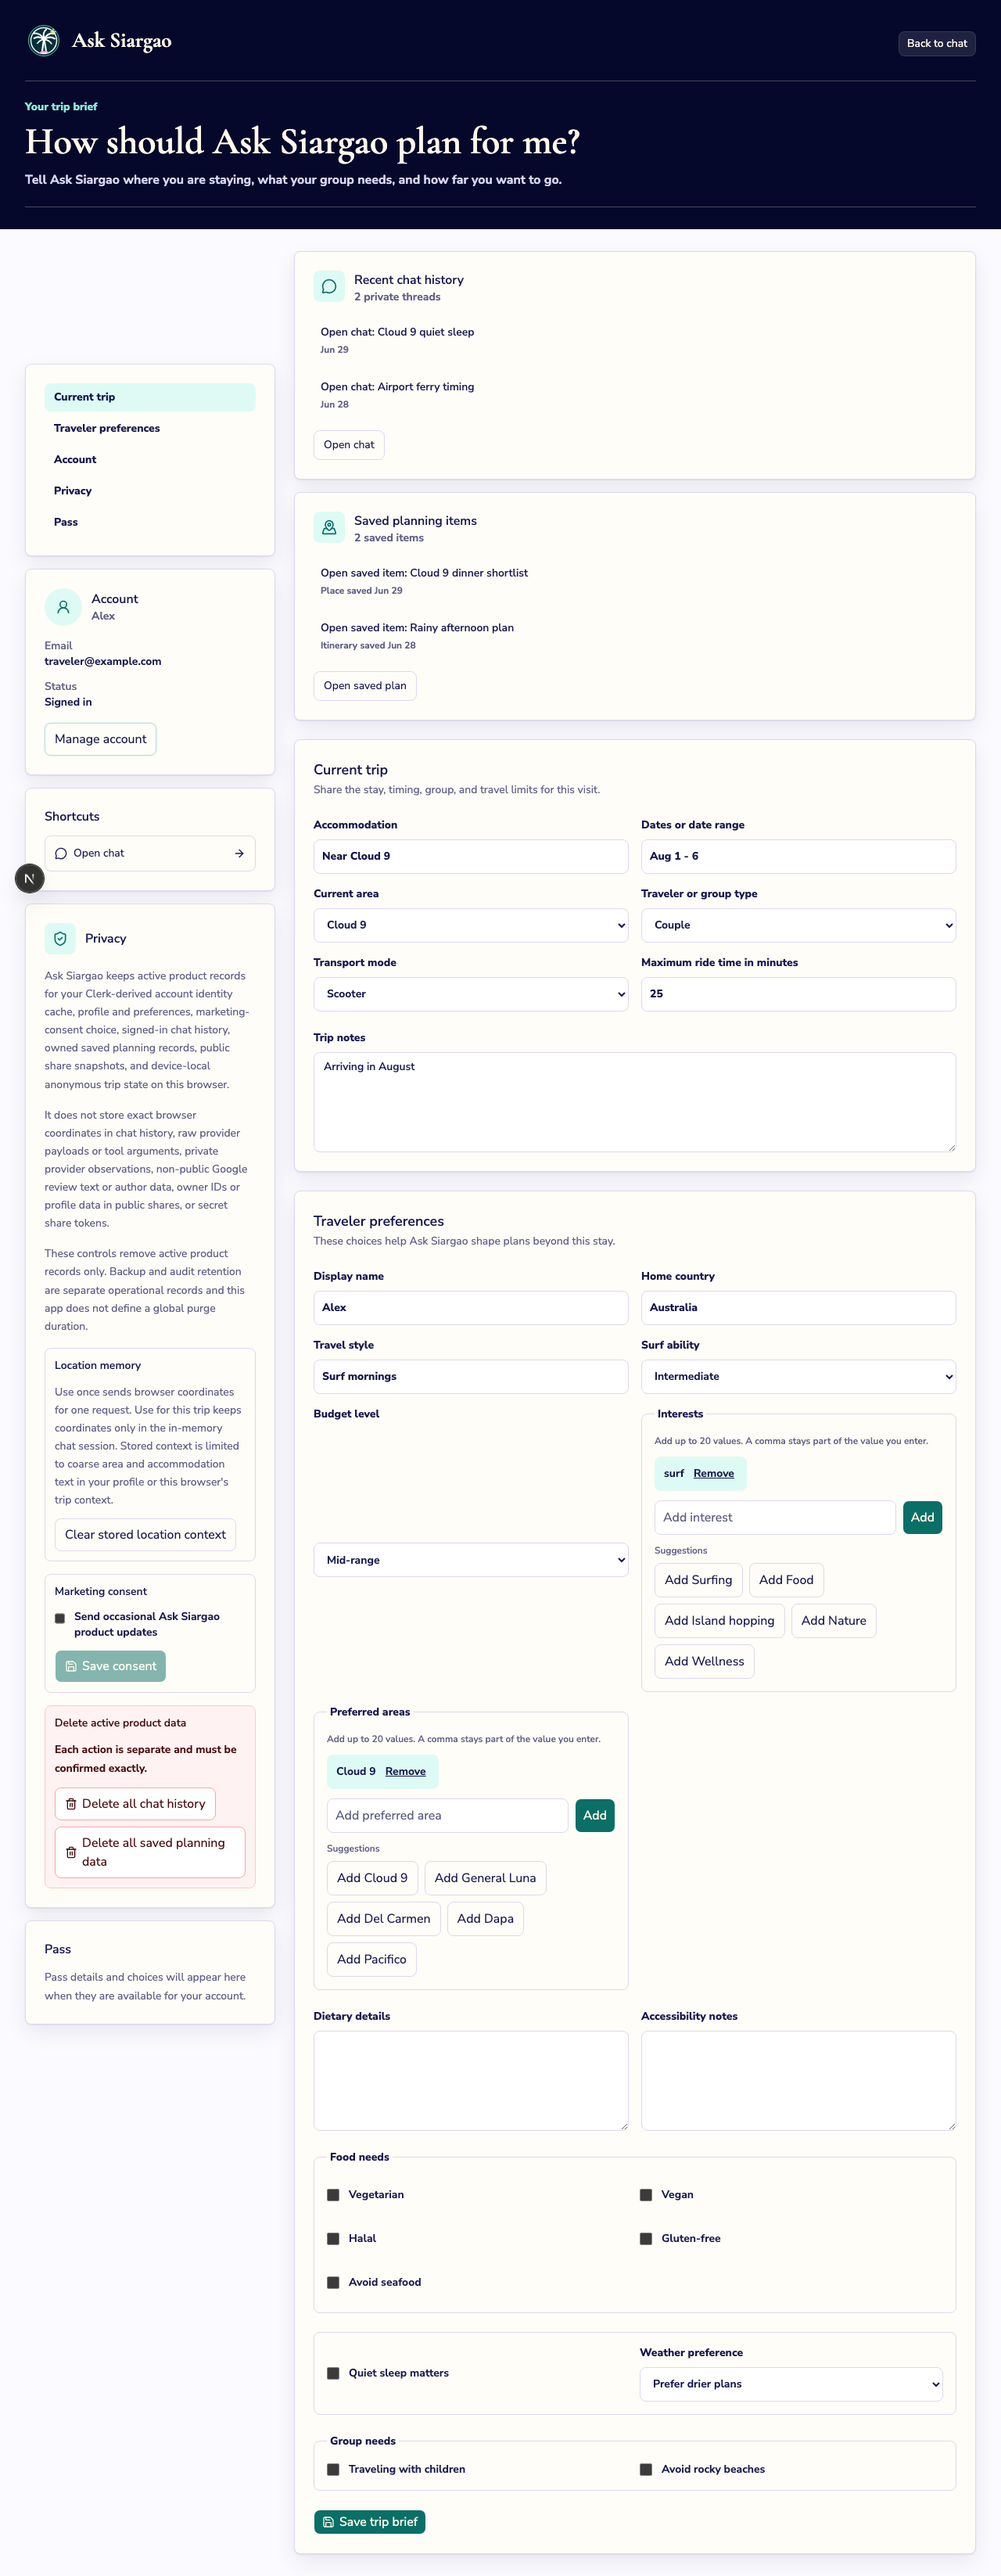
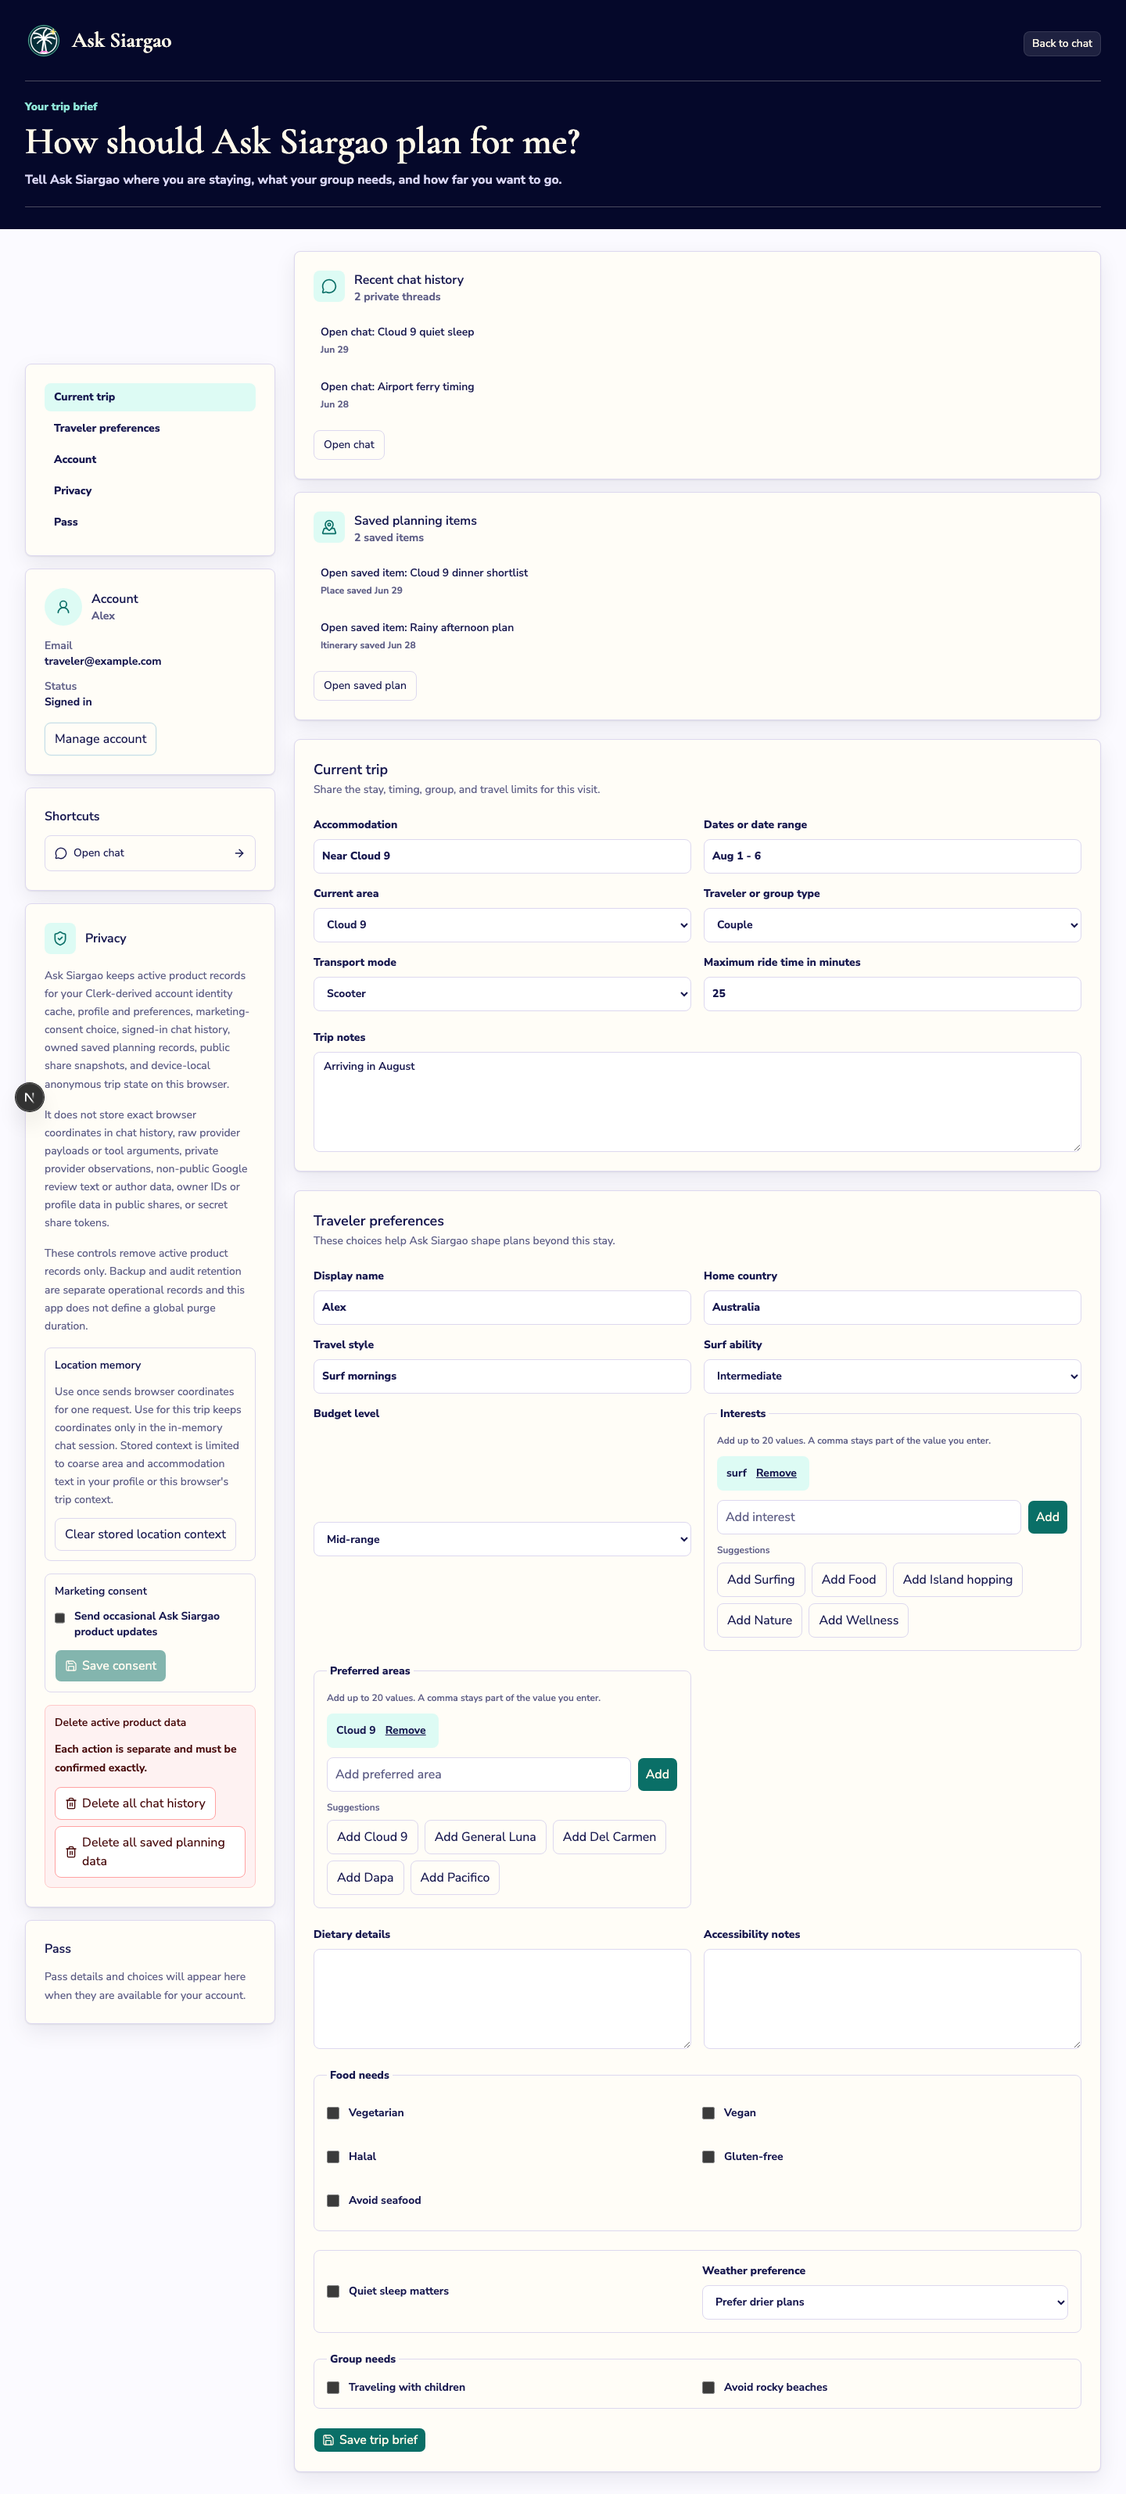
Align issue 120 screenshot dimensions

diff --git a/tests/e2e/chat.e2e.ts b/tests/e2e/chat.e2e.ts
@@ -664,7 +664,7 @@ test("renders the field desk workspace across desktop visual fixtures", async ({
       path: testInfo.outputPath(`field-desk-active-saved-long-${viewport.label}.png`),
       fullPage: true,
     });
-    if (viewport.label === "1180" || viewport.label === "wide-1920") {
+    if (viewport.label === "1180" || viewport.label === "1440" || viewport.label === "wide-1920") {
       await page.screenshot({
         path: testInfo.outputPath(`issue-120-chat-${viewport.label}.png`),
         fullPage: true,

diff --git a/tests/e2e/root.e2e.ts b/tests/e2e/root.e2e.ts
@@ -513,6 +513,7 @@ test("edits profile details and reloads the persisted values", async ({ page }) 
     });
   expect(Number.parseFloat(settingsSurfaceChrome.borderRadius)).toBeLessThanOrEqual(10);
   expect(settingsSurfaceChrome.boxShadow).not.toContain("48px");
+  await page.setViewportSize({ width: 1440, height: 1000 });
   await page.screenshot({
     path: "test-results/issue-120-settings-desktop.png",
     fullPage: true,

diff --git a/STATUS.d/issue-120.md b/STATUS.d/issue-120.md
@@ -27,7 +27,8 @@
 - screenshots:
   - Landing: `issue-120-landing-mobile-390.png`, `issue-120-landing-desktop-1440.png`.
   - Settings: `issue-120-settings-desktop.png`, `issue-120-settings-mobile-390.png`.
-  - Chat: `issue-120-chat-1180.png`, `issue-120-chat-wide-1920.png`, plus a 390px mobile shell.
+  - Chat: `issue-120-chat-1180.png`, `issue-120-chat-1440.png`, `issue-120-chat-wide-1920.png`,
+    plus a 390px mobile shell.
 - durable before/after evidence: `docs/visual-evidence/issue-120/{before,after}/` contains paired
   landing, settings, and chat PNGs at mobile 390px and desktop 1440px viewports. `file` verified
   all twelve artifacts as PNGs with the expected dimensions.
@@ -82,8 +83,8 @@
   - `docs/visual-evidence/issue-120/before/landing-{mobile-390,desktop-1440}.png`
   - `docs/visual-evidence/issue-120/before/settings-{mobile-390,desktop-1440}.png`
   - `docs/visual-evidence/issue-120/before/chat-{mobile-390,desktop-1440}.png`
-  - `docs/visual-evidence/issue-120/after/chat-{mobile-390,1180,wide-1920}.png` captured from
-    the current mocked E2E/desktop shell paths.
+  - `docs/visual-evidence/issue-120/after/chat-{mobile-390,1180,desktop-1440,wide-1920}.png`
+    captured from the current mocked E2E/desktop shell paths.
 - Requesting checker rerun against the same code head with this durable evidence present.
 
 ## Independent Checker Rerun - 2026-07-13
